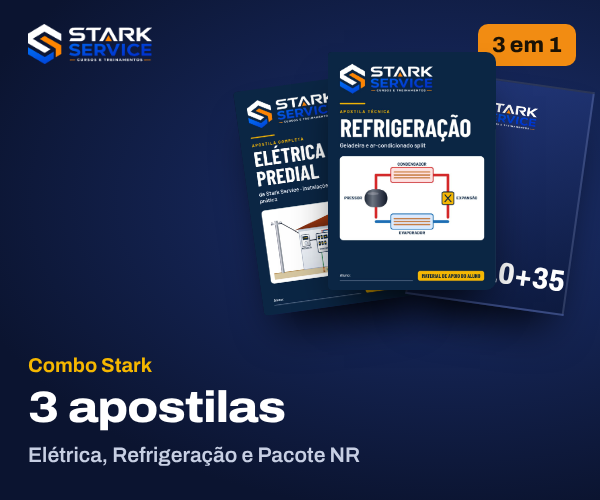
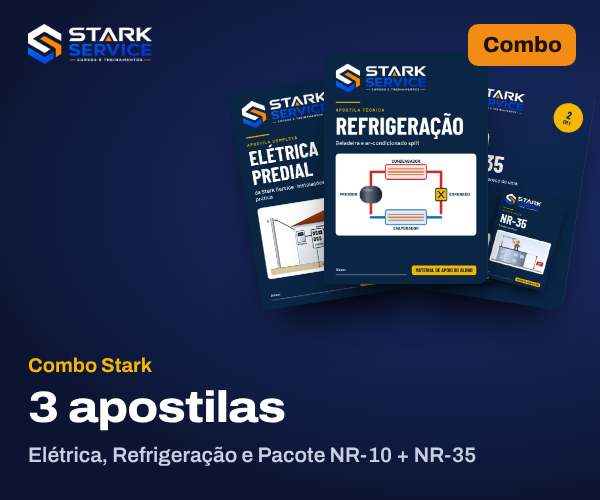
Pacote NR-10 + NR-35 na loja (duas apostilas por um preço) e combo fechado
Capa 2 em 1, prévia e livro de folhear com 8 páginas reais; links nr10/nr35
abrem o pacote; combo = Elétrica + Refrigeração + Pacote NR; imagens da Kiwify.

Claude-Session: https://claude.ai/code/session_013beyt1HZVZMUGNetuNrCYV

diff --git a/site/apostilas-teste.html b/site/apostilas-teste.html
@@ -328,7 +328,8 @@ footer{padding:2rem 0 calc(6rem + env(safe-area-inset-bottom,0px));color:var(--m
       <details><summary>Como recebo a apostila?</summary><p>Assim que o pagamento é aprovado, a Kiwify manda o acesso para o seu e-mail. Pix e cartão liberam na hora. Boleto libera depois que o banco confirma.</p></details>
       <details><summary>É impressa ou digital?</summary><p>Digital, em PDF. Abre no celular e no computador, e você pode imprimir se quiser.</p></details>
       <details><summary>Serve para quem nunca fez o curso?</summary><p>Serve. As apostilas têm pouco texto e muito desenho, com frases curtas, do jeito que a gente explica em sala.</p></details>
-      <details><summary>Como funciona o combo?</summary><p>Você leva três apostilas de uma vez por um valor menor do que comprando separado. O acesso às três chega junto, no mesmo e-mail.</p></details>
+      <details><summary>Como funciona o combo?</summary><p>Você leva Elétrica, Refrigeração e o Pacote NR (NR-10 + NR-35) de uma vez por um valor menor do que comprando separado. O acesso às três chega junto, no mesmo e-mail.</p></details>
+      <details><summary>As apostilas de NR dão certificado?</summary><p>Não. A apostila é material de estudo. O certificado de NR-10 ou NR-35 vem do curso presencial, e a autorização para trabalhar é dada pela empresa.</p></details>
       <details><summary>Ainda tenho dúvida. Com quem falo?</summary><p>Com a nossa equipe no WhatsApp (81) 98374-7177, de segunda a sexta, das 8h às 18h.</p></details>
     </div>
   </section>
@@ -348,7 +349,7 @@ footer{padding:2rem 0 calc(6rem + env(safe-area-inset-bottom,0px));color:var(--m
 <script>
 (() => {
 'use strict';
-const DATA = {"apostilas": {"eletrica": {"titulo": "Apostila Completa de Elétrica Predial", "curto": "Elétrica Predial", "sub": "60 páginas ilustradas, do jeito que a gente ensina no curso presencial da Stark Service.", "capa": "eletrica-capa.jpg", "plus": true, "previa": [["eletrica-sumario.jpg", "Sumário: as 10 partes da apostila"], ["eletrica-p22.jpg", "Página 22: disjuntores"], ["eletrica-p28.jpg", "Página 28: ligando uma tomada, passo a passo"]], "partes": [["Segurança em primeiro lugar", "Choque, EPI, desligar e testar"], ["Fundamentos da eletricidade", "Tensão, corrente, potência, fase, neutro e terra"], ["Ferramentas do eletricista", "Alicates, chaves, furadeira, multímetro"], ["Materiais e componentes", "Fios, eletrodutos, tomadas, disjuntor, DR, DPS"], ["Emendas e ligações", "Emendar, isolar, ler diagrama, ligar tomada"], ["Circuitos de iluminação", "Simples, duas teclas, paralelo, intermediário, sensor"], ["Quadro e circuitos", "Montar o quadro, dividir circuitos, aterramento"], ["Serviços do dia a dia", "Chuveiro, ventilador de teto, ar-condicionado"], ["Testes e entrega", "Testar sem e com energia, entregar o serviço"], ["Problemas comuns e consertos", "Fluxograma e 8 fichas de defeito"], ["Para fixar e consultar", "Glossário, checklist, exercícios, consulta rápida, gabarito"]], "para": ["Quem nunca mexeu com elétrica e quer começar do jeito certo", "Quem quer trabalhar como eletricista residencial", "Quem já faz serviço e quer uma consulta rápida com fichas de defeito"], "checkout": "https://pay.kiwify.com.br/cHyqB5j", "preco": "", "de": "", "soon": false}, "refrigeracao": {"titulo": "Apostila Completa de Refrigeração", "curto": "Refrigeração", "sub": "Geladeira e ar-condicionado split em 60 páginas ilustradas, com fichas de defeito e exercícios.", "capa": "refrigeracao-capa.jpg", "plus": true, "previa": [["refrigeracao-sumario.jpg", "Sumário: as 7 partes da apostila"], ["refrigeracao-p09.jpg", "Página 9: ferramentas e segurança"], ["refrigeracao-p43.jpg", "Página 43: ficha de defeito, geladeira não liga"]], "partes": [["Fundamentos", "Ciclo básico, calor e pressão, ferramentas, eletricidade básica"], ["Componentes", "Compressor, condensador, evaporador, expansão, termostato, partida"], ["Testes", "Termostato, compressor, ventilador e sensor"], ["Gás e procedimentos", "Fluidos, solda, teste de vazamento, vácuo, carga de gás"], ["Geladeira", "Tipos, frost free, degelo, esquema elétrico, manutenção"], ["Ar-condicionado split", "Evaporadora, condensadora, instalação, limpeza, inverter"], ["Defeitos e consertos", "Onde está o defeito, fichas da geladeira e do split"], ["Para consultar e praticar", "Glossário, checklist, exercícios, freezer e bebedouro"]], "para": ["Quem está começando em refrigeração", "Quem quer trabalhar com geladeira e ar-condicionado split", "Quem já faz o serviço e quer fichas de defeito para consultar"], "checkout": "", "preco": "", "de": "", "soon": false}, "nr-10": {"titulo": "Apostila de NR-10", "curto": "NR-10", "sub": "Segurança em instalações e serviços com eletricidade, no jeito Stark: pouco texto e muito desenho.", "capa": "", "plus": false, "previa": [], "partes": [["Riscos em instalações e serviços com eletricidade", ""], ["Técnicas de análise de risco", ""], ["Medidas de controle e proteção coletiva e individual", ""], ["Procedimentos de trabalho e primeiros socorros", ""], ["Acidentes típicos e prevenção", ""]], "para": ["Eletricistas e técnicos que trabalham com instalações elétricas", "Quem precisa da NR-10 para trabalhar e quer revisar o conteúdo"], "checkout": "", "preco": "", "de": "", "soon": true}, "nr-35": {"titulo": "Apostila de NR-35", "curto": "NR-35", "sub": "Trabalho em altura: análise de risco, EPI, ancoragem e resgate, ilustrado do jeito Stark.", "capa": "", "plus": false, "previa": [], "partes": [["Normas e regulamentações aplicáveis", ""], ["Análise de risco e condições impeditivas", ""], ["Equipamentos de proteção individual e coletiva", ""], ["Sistemas de ancoragem e trava-quedas", ""], ["Procedimentos de resgate e emergência", ""]], "para": ["Profissionais que executam atividades acima de 2 metros do nível inferior", "Quem precisa da NR-35 para trabalhar e quer revisar o conteúdo"], "checkout": "", "preco": "", "de": "", "soon": true}}, "combo": {"titulo": "Elétrica, Refrigeração e NR-10", "itens": ["eletrica", "refrigeracao", "nr-10"], "checkout": "", "preco": "", "de": ""}, "whats": "5581983747177"};
+const DATA = {"apostilas": {"eletrica": {"titulo": "Apostila Completa de Elétrica Predial", "curto": "Elétrica Predial", "sub": "60 páginas ilustradas, do jeito que a gente ensina no curso presencial da Stark Service.", "capa": "eletrica-capa.jpg", "plus": true, "previa": [["eletrica-sumario.jpg", "Sumário: as 10 partes da apostila"], ["eletrica-p22.jpg", "Página 22: disjuntores"], ["eletrica-p28.jpg", "Página 28: ligando uma tomada, passo a passo"]], "partes": [["Segurança em primeiro lugar", "Choque, EPI, desligar e testar"], ["Fundamentos da eletricidade", "Tensão, corrente, potência, fase, neutro e terra"], ["Ferramentas do eletricista", "Alicates, chaves, furadeira, multímetro"], ["Materiais e componentes", "Fios, eletrodutos, tomadas, disjuntor, DR, DPS"], ["Emendas e ligações", "Emendar, isolar, ler diagrama, ligar tomada"], ["Circuitos de iluminação", "Simples, duas teclas, paralelo, intermediário, sensor"], ["Quadro e circuitos", "Montar o quadro, dividir circuitos, aterramento"], ["Serviços do dia a dia", "Chuveiro, ventilador de teto, ar-condicionado"], ["Testes e entrega", "Testar sem e com energia, entregar o serviço"], ["Problemas comuns e consertos", "Fluxograma e 8 fichas de defeito"], ["Para fixar e consultar", "Glossário, checklist, exercícios, consulta rápida, gabarito"]], "para": ["Quem nunca mexeu com elétrica e quer começar do jeito certo", "Quem quer trabalhar como eletricista residencial", "Quem já faz serviço e quer uma consulta rápida com fichas de defeito"], "checkout": "https://pay.kiwify.com.br/cHyqB5j", "preco": "", "de": "", "soon": false}, "refrigeracao": {"titulo": "Apostila Completa de Refrigeração", "curto": "Refrigeração", "sub": "Geladeira e ar-condicionado split em 60 páginas ilustradas, com fichas de defeito e exercícios.", "capa": "refrigeracao-capa.jpg", "plus": true, "previa": [["refrigeracao-sumario.jpg", "Sumário: as 7 partes da apostila"], ["refrigeracao-p09.jpg", "Página 9: ferramentas e segurança"], ["refrigeracao-p43.jpg", "Página 43: ficha de defeito, geladeira não liga"]], "partes": [["Fundamentos", "Ciclo básico, calor e pressão, ferramentas, eletricidade básica"], ["Componentes", "Compressor, condensador, evaporador, expansão, termostato, partida"], ["Testes", "Termostato, compressor, ventilador e sensor"], ["Gás e procedimentos", "Fluidos, solda, teste de vazamento, vácuo, carga de gás"], ["Geladeira", "Tipos, frost free, degelo, esquema elétrico, manutenção"], ["Ar-condicionado split", "Evaporadora, condensadora, instalação, limpeza, inverter"], ["Defeitos e consertos", "Onde está o defeito, fichas da geladeira e do split"], ["Para consultar e praticar", "Glossário, checklist, exercícios, freezer e bebedouro"]], "para": ["Quem está começando em refrigeração", "Quem quer trabalhar com geladeira e ar-condicionado split", "Quem já faz o serviço e quer fichas de defeito para consultar"], "checkout": "", "preco": "", "de": "", "soon": false}, "pacote-nr": {"titulo": "Pacote NR-10 + NR-35", "curto": "NR-10 + NR-35", "sub": "As duas apostilas pelo preço de uma: NR-10 (24 páginas) e NR-35 (16 páginas), ilustradas do jeito Stark.", "capa": "pacote-nr-capa.jpg", "plus": false, "previa": [["pacote-nr-f1.jpg", "NR-10: sumário"], ["pacote-nr-f3.jpg", "NR-10, página 12: bloqueio e sinalização"], ["pacote-nr-f6.jpg", "NR-35, página 8: cinturão tipo paraquedista"]], "partes": [["NR-10: a norma e você", "Para que serve a NR-10 e quem pode trabalhar com eletricidade"], ["NR-10: os perigos da eletricidade", "Tensões, choque elétrico, arco elétrico e acidentes"], ["NR-10: proteção coletiva", "Aterramento, DR, zonas de risco, bloqueio e sinalização"], ["NR-10: desenergizar e reenergizar", "O passo a passo seguro, com teste de ausência de tensão"], ["NR-10: EPI, ferramentas e organização do trabalho", ""], ["NR-10: emergências", "Socorro, RCP e incêndio"], ["NR-35: a norma e você", "O que é trabalho em altura e quem pode subir"], ["NR-35: planejar antes de subir", "Planejamento, análise de risco e proteção coletiva"], ["NR-35: equipamentos contra queda", "Cinturão, talabarte, ancoragem e inspeção"], ["NR-35: na prática", "Escadas, telhado e resgate"], ["Nas duas apostilas", "Exercícios, glossário, checklist e gabarito"]], "para": ["Quem vai fazer o curso de NR-10 ou NR-35 e quer chegar sabendo", "Eletricista que trabalha em altura: escada, telhado, poste", "Quem já tem o certificado e quer revisar o conteúdo"], "checkout": "", "preco": "", "de": "", "soon": false}}, "combo": {"titulo": "Elétrica, Refrigeração e Pacote NR", "itens": ["eletrica", "refrigeracao", "pacote-nr"], "checkout": "", "preco": "", "de": ""}, "whats": "5581983747177"};
 const { apostilas: AP, combo: COMBO, whats: WHATS } = DATA;
 const ORDER = Object.keys(AP);
 const esc = (s) => String(s).replace(/[&<>"]/g, (c) => ({ '&': '&amp;', '<': '&lt;', '>': '&gt;', '"': '&quot;' }[c]));
@@ -369,7 +370,7 @@ function withTracking(url) {
     return u.toString();
   } catch (e) { return url; }
 }
-const buyHref = (a) => a.soon ? wa(`Olá! Quero entrar na lista da apostila de ${a.curto}.`) : withTracking(a.checkout || wa(`Olá! Quero comprar a ${a.titulo}.`));
+const buyHref = (a) => a.soon ? wa(`Olá! Quero entrar na lista da apostila de ${a.curto}.`) : withTracking(a.checkout || wa(`Olá! Quero comprar: ${a.titulo}.`));
 const buyLabel = (a) => a.soon ? 'Avise-me quando sair' : (a.preco || !a.checkout ? 'Quero a apostila' : 'Ver preço e comprar');
 const cover = (a, cls = '') => a.capa
   ? `<img class="${cls}" src="img/previa/${a.capa}" alt="Capa da ${esc(a.titulo)}" width="1000" height="1414">`
@@ -582,7 +583,7 @@ function tiltOn(el, glare, area, max) {
   };
   area.onpointerleave = () => { tx = 0; ty = 0; if (!raf) raf = requestAnimationFrame(loop); };
 }
-const FLIP = { eletrica: 8, refrigeracao: 8 };
+const FLIP = { eletrica: 8, refrigeracao: 8, 'pacote-nr': 8 };
 
 /* ===== TESTE NÍVEL 2 ===== */
 const fine = matchMedia('(hover: hover) and (pointer: fine)').matches;
@@ -678,7 +679,7 @@ function enhance() { requestAnimationFrame(() => { moveInd(); reveal(); }); }
 
 /* Which apostila to open: ?apostila=eletrica (link do direct), or #eletrica, or the first one */
 const params = new URLSearchParams(location.search);
-const alias = { eletrica: 'eletrica', 'eletrica-predial': 'eletrica', refri: 'refrigeracao', refrigeracao: 'refrigeracao', geladeira: 'refrigeracao', ar: 'refrigeracao', nr10: 'nr-10', 'nr-10': 'nr-10', nr35: 'nr-35', 'nr-35': 'nr-35' };
+const alias = { eletrica: 'eletrica', 'eletrica-predial': 'eletrica', refri: 'refrigeracao', refrigeracao: 'refrigeracao', geladeira: 'refrigeracao', ar: 'refrigeracao', nr10: 'pacote-nr', 'nr-10': 'pacote-nr', nr35: 'pacote-nr', 'nr-35': 'pacote-nr', nr: 'pacote-nr', pacote: 'pacote-nr' };
 const want = (params.get('apostila') || location.hash.slice(1) || '').toLowerCase();
 renderCombo(); upgradeButtons(document.getElementById('comboCard'));
 upgradeButtons(document.getElementById('dock'));

diff --git a/site/apostilas.html b/site/apostilas.html
@@ -327,7 +327,8 @@ footer{padding:2rem 0 calc(6rem + env(safe-area-inset-bottom,0px));color:var(--m
       <details><summary>Como recebo a apostila?</summary><p>Assim que o pagamento é aprovado, a Kiwify manda o acesso para o seu e-mail. Pix e cartão liberam na hora. Boleto libera depois que o banco confirma.</p></details>
       <details><summary>É impressa ou digital?</summary><p>Digital, em PDF. Abre no celular e no computador, e você pode imprimir se quiser.</p></details>
       <details><summary>Serve para quem nunca fez o curso?</summary><p>Serve. As apostilas têm pouco texto e muito desenho, com frases curtas, do jeito que a gente explica em sala.</p></details>
-      <details><summary>Como funciona o combo?</summary><p>Você leva três apostilas de uma vez por um valor menor do que comprando separado. O acesso às três chega junto, no mesmo e-mail.</p></details>
+      <details><summary>Como funciona o combo?</summary><p>Você leva Elétrica, Refrigeração e o Pacote NR (NR-10 + NR-35) de uma vez por um valor menor do que comprando separado. O acesso às três chega junto, no mesmo e-mail.</p></details>
+      <details><summary>As apostilas de NR dão certificado?</summary><p>Não. A apostila é material de estudo. O certificado de NR-10 ou NR-35 vem do curso presencial, e a autorização para trabalhar é dada pela empresa.</p></details>
       <details><summary>Ainda tenho dúvida. Com quem falo?</summary><p>Com a nossa equipe no WhatsApp (81) 98374-7177, de segunda a sexta, das 8h às 18h.</p></details>
     </div>
   </section>
@@ -347,7 +348,7 @@ footer{padding:2rem 0 calc(6rem + env(safe-area-inset-bottom,0px));color:var(--m
 <script>
 (() => {
 'use strict';
-const DATA = {"apostilas": {"eletrica": {"titulo": "Apostila Completa de Elétrica Predial", "curto": "Elétrica Predial", "sub": "60 páginas ilustradas, do jeito que a gente ensina no curso presencial da Stark Service.", "capa": "eletrica-capa.jpg", "plus": true, "previa": [["eletrica-sumario.jpg", "Sumário: as 10 partes da apostila"], ["eletrica-p22.jpg", "Página 22: disjuntores"], ["eletrica-p28.jpg", "Página 28: ligando uma tomada, passo a passo"]], "partes": [["Segurança em primeiro lugar", "Choque, EPI, desligar e testar"], ["Fundamentos da eletricidade", "Tensão, corrente, potência, fase, neutro e terra"], ["Ferramentas do eletricista", "Alicates, chaves, furadeira, multímetro"], ["Materiais e componentes", "Fios, eletrodutos, tomadas, disjuntor, DR, DPS"], ["Emendas e ligações", "Emendar, isolar, ler diagrama, ligar tomada"], ["Circuitos de iluminação", "Simples, duas teclas, paralelo, intermediário, sensor"], ["Quadro e circuitos", "Montar o quadro, dividir circuitos, aterramento"], ["Serviços do dia a dia", "Chuveiro, ventilador de teto, ar-condicionado"], ["Testes e entrega", "Testar sem e com energia, entregar o serviço"], ["Problemas comuns e consertos", "Fluxograma e 8 fichas de defeito"], ["Para fixar e consultar", "Glossário, checklist, exercícios, consulta rápida, gabarito"]], "para": ["Quem nunca mexeu com elétrica e quer começar do jeito certo", "Quem quer trabalhar como eletricista residencial", "Quem já faz serviço e quer uma consulta rápida com fichas de defeito"], "checkout": "https://pay.kiwify.com.br/cHyqB5j", "preco": "", "de": "", "soon": false}, "refrigeracao": {"titulo": "Apostila Completa de Refrigeração", "curto": "Refrigeração", "sub": "Geladeira e ar-condicionado split em 60 páginas ilustradas, com fichas de defeito e exercícios.", "capa": "refrigeracao-capa.jpg", "plus": true, "previa": [["refrigeracao-sumario.jpg", "Sumário: as 7 partes da apostila"], ["refrigeracao-p09.jpg", "Página 9: ferramentas e segurança"], ["refrigeracao-p43.jpg", "Página 43: ficha de defeito, geladeira não liga"]], "partes": [["Fundamentos", "Ciclo básico, calor e pressão, ferramentas, eletricidade básica"], ["Componentes", "Compressor, condensador, evaporador, expansão, termostato, partida"], ["Testes", "Termostato, compressor, ventilador e sensor"], ["Gás e procedimentos", "Fluidos, solda, teste de vazamento, vácuo, carga de gás"], ["Geladeira", "Tipos, frost free, degelo, esquema elétrico, manutenção"], ["Ar-condicionado split", "Evaporadora, condensadora, instalação, limpeza, inverter"], ["Defeitos e consertos", "Onde está o defeito, fichas da geladeira e do split"], ["Para consultar e praticar", "Glossário, checklist, exercícios, freezer e bebedouro"]], "para": ["Quem está começando em refrigeração", "Quem quer trabalhar com geladeira e ar-condicionado split", "Quem já faz o serviço e quer fichas de defeito para consultar"], "checkout": "", "preco": "", "de": "", "soon": false}, "nr-10": {"titulo": "Apostila de NR-10", "curto": "NR-10", "sub": "Segurança em instalações e serviços com eletricidade, no jeito Stark: pouco texto e muito desenho.", "capa": "", "plus": false, "previa": [], "partes": [["Riscos em instalações e serviços com eletricidade", ""], ["Técnicas de análise de risco", ""], ["Medidas de controle e proteção coletiva e individual", ""], ["Procedimentos de trabalho e primeiros socorros", ""], ["Acidentes típicos e prevenção", ""]], "para": ["Eletricistas e técnicos que trabalham com instalações elétricas", "Quem precisa da NR-10 para trabalhar e quer revisar o conteúdo"], "checkout": "", "preco": "", "de": "", "soon": true}, "nr-35": {"titulo": "Apostila de NR-35", "curto": "NR-35", "sub": "Trabalho em altura: análise de risco, EPI, ancoragem e resgate, ilustrado do jeito Stark.", "capa": "", "plus": false, "previa": [], "partes": [["Normas e regulamentações aplicáveis", ""], ["Análise de risco e condições impeditivas", ""], ["Equipamentos de proteção individual e coletiva", ""], ["Sistemas de ancoragem e trava-quedas", ""], ["Procedimentos de resgate e emergência", ""]], "para": ["Profissionais que executam atividades acima de 2 metros do nível inferior", "Quem precisa da NR-35 para trabalhar e quer revisar o conteúdo"], "checkout": "", "preco": "", "de": "", "soon": true}}, "combo": {"titulo": "Elétrica, Refrigeração e NR-10", "itens": ["eletrica", "refrigeracao", "nr-10"], "checkout": "", "preco": "", "de": ""}, "whats": "5581983747177"};
+const DATA = {"apostilas": {"eletrica": {"titulo": "Apostila Completa de Elétrica Predial", "curto": "Elétrica Predial", "sub": "60 páginas ilustradas, do jeito que a gente ensina no curso presencial da Stark Service.", "capa": "eletrica-capa.jpg", "plus": true, "previa": [["eletrica-sumario.jpg", "Sumário: as 10 partes da apostila"], ["eletrica-p22.jpg", "Página 22: disjuntores"], ["eletrica-p28.jpg", "Página 28: ligando uma tomada, passo a passo"]], "partes": [["Segurança em primeiro lugar", "Choque, EPI, desligar e testar"], ["Fundamentos da eletricidade", "Tensão, corrente, potência, fase, neutro e terra"], ["Ferramentas do eletricista", "Alicates, chaves, furadeira, multímetro"], ["Materiais e componentes", "Fios, eletrodutos, tomadas, disjuntor, DR, DPS"], ["Emendas e ligações", "Emendar, isolar, ler diagrama, ligar tomada"], ["Circuitos de iluminação", "Simples, duas teclas, paralelo, intermediário, sensor"], ["Quadro e circuitos", "Montar o quadro, dividir circuitos, aterramento"], ["Serviços do dia a dia", "Chuveiro, ventilador de teto, ar-condicionado"], ["Testes e entrega", "Testar sem e com energia, entregar o serviço"], ["Problemas comuns e consertos", "Fluxograma e 8 fichas de defeito"], ["Para fixar e consultar", "Glossário, checklist, exercícios, consulta rápida, gabarito"]], "para": ["Quem nunca mexeu com elétrica e quer começar do jeito certo", "Quem quer trabalhar como eletricista residencial", "Quem já faz serviço e quer uma consulta rápida com fichas de defeito"], "checkout": "https://pay.kiwify.com.br/cHyqB5j", "preco": "", "de": "", "soon": false}, "refrigeracao": {"titulo": "Apostila Completa de Refrigeração", "curto": "Refrigeração", "sub": "Geladeira e ar-condicionado split em 60 páginas ilustradas, com fichas de defeito e exercícios.", "capa": "refrigeracao-capa.jpg", "plus": true, "previa": [["refrigeracao-sumario.jpg", "Sumário: as 7 partes da apostila"], ["refrigeracao-p09.jpg", "Página 9: ferramentas e segurança"], ["refrigeracao-p43.jpg", "Página 43: ficha de defeito, geladeira não liga"]], "partes": [["Fundamentos", "Ciclo básico, calor e pressão, ferramentas, eletricidade básica"], ["Componentes", "Compressor, condensador, evaporador, expansão, termostato, partida"], ["Testes", "Termostato, compressor, ventilador e sensor"], ["Gás e procedimentos", "Fluidos, solda, teste de vazamento, vácuo, carga de gás"], ["Geladeira", "Tipos, frost free, degelo, esquema elétrico, manutenção"], ["Ar-condicionado split", "Evaporadora, condensadora, instalação, limpeza, inverter"], ["Defeitos e consertos", "Onde está o defeito, fichas da geladeira e do split"], ["Para consultar e praticar", "Glossário, checklist, exercícios, freezer e bebedouro"]], "para": ["Quem está começando em refrigeração", "Quem quer trabalhar com geladeira e ar-condicionado split", "Quem já faz o serviço e quer fichas de defeito para consultar"], "checkout": "", "preco": "", "de": "", "soon": false}, "pacote-nr": {"titulo": "Pacote NR-10 + NR-35", "curto": "NR-10 + NR-35", "sub": "As duas apostilas pelo preço de uma: NR-10 (24 páginas) e NR-35 (16 páginas), ilustradas do jeito Stark.", "capa": "pacote-nr-capa.jpg", "plus": false, "previa": [["pacote-nr-f1.jpg", "NR-10: sumário"], ["pacote-nr-f3.jpg", "NR-10, página 12: bloqueio e sinalização"], ["pacote-nr-f6.jpg", "NR-35, página 8: cinturão tipo paraquedista"]], "partes": [["NR-10: a norma e você", "Para que serve a NR-10 e quem pode trabalhar com eletricidade"], ["NR-10: os perigos da eletricidade", "Tensões, choque elétrico, arco elétrico e acidentes"], ["NR-10: proteção coletiva", "Aterramento, DR, zonas de risco, bloqueio e sinalização"], ["NR-10: desenergizar e reenergizar", "O passo a passo seguro, com teste de ausência de tensão"], ["NR-10: EPI, ferramentas e organização do trabalho", ""], ["NR-10: emergências", "Socorro, RCP e incêndio"], ["NR-35: a norma e você", "O que é trabalho em altura e quem pode subir"], ["NR-35: planejar antes de subir", "Planejamento, análise de risco e proteção coletiva"], ["NR-35: equipamentos contra queda", "Cinturão, talabarte, ancoragem e inspeção"], ["NR-35: na prática", "Escadas, telhado e resgate"], ["Nas duas apostilas", "Exercícios, glossário, checklist e gabarito"]], "para": ["Quem vai fazer o curso de NR-10 ou NR-35 e quer chegar sabendo", "Eletricista que trabalha em altura: escada, telhado, poste", "Quem já tem o certificado e quer revisar o conteúdo"], "checkout": "", "preco": "", "de": "", "soon": false}}, "combo": {"titulo": "Elétrica, Refrigeração e Pacote NR", "itens": ["eletrica", "refrigeracao", "pacote-nr"], "checkout": "", "preco": "", "de": ""}, "whats": "5581983747177"};
 const { apostilas: AP, combo: COMBO, whats: WHATS } = DATA;
 const ORDER = Object.keys(AP);
 const esc = (s) => String(s).replace(/[&<>"]/g, (c) => ({ '&': '&amp;', '<': '&lt;', '>': '&gt;', '"': '&quot;' }[c]));
@@ -368,7 +369,7 @@ function withTracking(url) {
     return u.toString();
   } catch (e) { return url; }
 }
-const buyHref = (a) => a.soon ? wa(`Olá! Quero entrar na lista da apostila de ${a.curto}.`) : withTracking(a.checkout || wa(`Olá! Quero comprar a ${a.titulo}.`));
+const buyHref = (a) => a.soon ? wa(`Olá! Quero entrar na lista da apostila de ${a.curto}.`) : withTracking(a.checkout || wa(`Olá! Quero comprar: ${a.titulo}.`));
 const buyLabel = (a) => a.soon ? 'Avise-me quando sair' : (a.preco || !a.checkout ? 'Quero a apostila' : 'Ver preço e comprar');
 const cover = (a, cls = '') => a.capa
   ? `<img class="${cls}" src="img/previa/${a.capa}" alt="Capa da ${esc(a.titulo)}" width="1000" height="1414">`
@@ -581,7 +582,7 @@ function tiltOn(el, glare, area, max) {
   };
   area.onpointerleave = () => { tx = 0; ty = 0; if (!raf) raf = requestAnimationFrame(loop); };
 }
-const FLIP = { eletrica: 8, refrigeracao: 8 };
+const FLIP = { eletrica: 8, refrigeracao: 8, 'pacote-nr': 8 };
 
 /* ===== TESTE NÍVEL 2 ===== */
 const fine = matchMedia('(hover: hover) and (pointer: fine)').matches;
@@ -677,7 +678,7 @@ function enhance() { requestAnimationFrame(() => { moveInd(); reveal(); }); }
 
 /* Which apostila to open: ?apostila=eletrica (link do direct), or #eletrica, or the first one */
 const params = new URLSearchParams(location.search);
-const alias = { eletrica: 'eletrica', 'eletrica-predial': 'eletrica', refri: 'refrigeracao', refrigeracao: 'refrigeracao', geladeira: 'refrigeracao', ar: 'refrigeracao', nr10: 'nr-10', 'nr-10': 'nr-10', nr35: 'nr-35', 'nr-35': 'nr-35' };
+const alias = { eletrica: 'eletrica', 'eletrica-predial': 'eletrica', refri: 'refrigeracao', refrigeracao: 'refrigeracao', geladeira: 'refrigeracao', ar: 'refrigeracao', nr10: 'pacote-nr', 'nr-10': 'pacote-nr', nr35: 'pacote-nr', 'nr-35': 'pacote-nr', nr: 'pacote-nr', pacote: 'pacote-nr' };
 const want = (params.get('apostila') || location.hash.slice(1) || '').toLowerCase();
 renderCombo(); upgradeButtons(document.getElementById('comboCard'));
 upgradeButtons(document.getElementById('dock'));

diff --git a/site/vendas/loja-teste.html b/site/vendas/loja-teste.html
@@ -328,7 +328,8 @@ footer{padding:2rem 0 calc(6rem + env(safe-area-inset-bottom,0px));color:var(--m
       <details><summary>Como recebo a apostila?</summary><p>Assim que o pagamento é aprovado, a Kiwify manda o acesso para o seu e-mail. Pix e cartão liberam na hora. Boleto libera depois que o banco confirma.</p></details>
       <details><summary>É impressa ou digital?</summary><p>Digital, em PDF. Abre no celular e no computador, e você pode imprimir se quiser.</p></details>
       <details><summary>Serve para quem nunca fez o curso?</summary><p>Serve. As apostilas têm pouco texto e muito desenho, com frases curtas, do jeito que a gente explica em sala.</p></details>
-      <details><summary>Como funciona o combo?</summary><p>Você leva três apostilas de uma vez por um valor menor do que comprando separado. O acesso às três chega junto, no mesmo e-mail.</p></details>
+      <details><summary>Como funciona o combo?</summary><p>Você leva Elétrica, Refrigeração e o Pacote NR (NR-10 + NR-35) de uma vez por um valor menor do que comprando separado. O acesso às três chega junto, no mesmo e-mail.</p></details>
+      <details><summary>As apostilas de NR dão certificado?</summary><p>Não. A apostila é material de estudo. O certificado de NR-10 ou NR-35 vem do curso presencial, e a autorização para trabalhar é dada pela empresa.</p></details>
       <details><summary>Ainda tenho dúvida. Com quem falo?</summary><p>Com a nossa equipe no WhatsApp (81) 98374-7177, de segunda a sexta, das 8h às 18h.</p></details>
     </div>
   </section>
@@ -369,7 +370,7 @@ function withTracking(url) {
     return u.toString();
   } catch (e) { return url; }
 }
-const buyHref = (a) => a.soon ? wa(`Olá! Quero entrar na lista da apostila de ${a.curto}.`) : withTracking(a.checkout || wa(`Olá! Quero comprar a ${a.titulo}.`));
+const buyHref = (a) => a.soon ? wa(`Olá! Quero entrar na lista da apostila de ${a.curto}.`) : withTracking(a.checkout || wa(`Olá! Quero comprar: ${a.titulo}.`));
 const buyLabel = (a) => a.soon ? 'Avise-me quando sair' : (a.preco || !a.checkout ? 'Quero a apostila' : 'Ver preço e comprar');
 const cover = (a, cls = '') => a.capa
   ? `<img class="${cls}" src="img/previa/${a.capa}" alt="Capa da ${esc(a.titulo)}" width="1000" height="1414">`
@@ -582,7 +583,7 @@ function tiltOn(el, glare, area, max) {
   };
   area.onpointerleave = () => { tx = 0; ty = 0; if (!raf) raf = requestAnimationFrame(loop); };
 }
-const FLIP = { eletrica: 8, refrigeracao: 8 };
+const FLIP = { eletrica: 8, refrigeracao: 8, 'pacote-nr': 8 };
 
 /* ===== TESTE NÍVEL 2 ===== */
 const fine = matchMedia('(hover: hover) and (pointer: fine)').matches;
@@ -678,7 +679,7 @@ function enhance() { requestAnimationFrame(() => { moveInd(); reveal(); }); }
 
 /* Which apostila to open: ?apostila=eletrica (link do direct), or #eletrica, or the first one */
 const params = new URLSearchParams(location.search);
-const alias = { eletrica: 'eletrica', 'eletrica-predial': 'eletrica', refri: 'refrigeracao', refrigeracao: 'refrigeracao', geladeira: 'refrigeracao', ar: 'refrigeracao', nr10: 'nr-10', 'nr-10': 'nr-10', nr35: 'nr-35', 'nr-35': 'nr-35' };
+const alias = { eletrica: 'eletrica', 'eletrica-predial': 'eletrica', refri: 'refrigeracao', refrigeracao: 'refrigeracao', geladeira: 'refrigeracao', ar: 'refrigeracao', nr10: 'pacote-nr', 'nr-10': 'pacote-nr', nr35: 'pacote-nr', 'nr-35': 'pacote-nr', nr: 'pacote-nr', pacote: 'pacote-nr' };
 const want = (params.get('apostila') || location.hash.slice(1) || '').toLowerCase();
 renderCombo(); upgradeButtons(document.getElementById('comboCard'));
 upgradeButtons(document.getElementById('dock'));

diff --git a/site/vendas/loja.html b/site/vendas/loja.html
@@ -327,7 +327,8 @@ footer{padding:2rem 0 calc(6rem + env(safe-area-inset-bottom,0px));color:var(--m
       <details><summary>Como recebo a apostila?</summary><p>Assim que o pagamento é aprovado, a Kiwify manda o acesso para o seu e-mail. Pix e cartão liberam na hora. Boleto libera depois que o banco confirma.</p></details>
       <details><summary>É impressa ou digital?</summary><p>Digital, em PDF. Abre no celular e no computador, e você pode imprimir se quiser.</p></details>
       <details><summary>Serve para quem nunca fez o curso?</summary><p>Serve. As apostilas têm pouco texto e muito desenho, com frases curtas, do jeito que a gente explica em sala.</p></details>
-      <details><summary>Como funciona o combo?</summary><p>Você leva três apostilas de uma vez por um valor menor do que comprando separado. O acesso às três chega junto, no mesmo e-mail.</p></details>
+      <details><summary>Como funciona o combo?</summary><p>Você leva Elétrica, Refrigeração e o Pacote NR (NR-10 + NR-35) de uma vez por um valor menor do que comprando separado. O acesso às três chega junto, no mesmo e-mail.</p></details>
+      <details><summary>As apostilas de NR dão certificado?</summary><p>Não. A apostila é material de estudo. O certificado de NR-10 ou NR-35 vem do curso presencial, e a autorização para trabalhar é dada pela empresa.</p></details>
       <details><summary>Ainda tenho dúvida. Com quem falo?</summary><p>Com a nossa equipe no WhatsApp (81) 98374-7177, de segunda a sexta, das 8h às 18h.</p></details>
     </div>
   </section>
@@ -368,7 +369,7 @@ function withTracking(url) {
     return u.toString();
   } catch (e) { return url; }
 }
-const buyHref = (a) => a.soon ? wa(`Olá! Quero entrar na lista da apostila de ${a.curto}.`) : withTracking(a.checkout || wa(`Olá! Quero comprar a ${a.titulo}.`));
+const buyHref = (a) => a.soon ? wa(`Olá! Quero entrar na lista da apostila de ${a.curto}.`) : withTracking(a.checkout || wa(`Olá! Quero comprar: ${a.titulo}.`));
 const buyLabel = (a) => a.soon ? 'Avise-me quando sair' : (a.preco || !a.checkout ? 'Quero a apostila' : 'Ver preço e comprar');
 const cover = (a, cls = '') => a.capa
   ? `<img class="${cls}" src="img/previa/${a.capa}" alt="Capa da ${esc(a.titulo)}" width="1000" height="1414">`
@@ -581,7 +582,7 @@ function tiltOn(el, glare, area, max) {
   };
   area.onpointerleave = () => { tx = 0; ty = 0; if (!raf) raf = requestAnimationFrame(loop); };
 }
-const FLIP = { eletrica: 8, refrigeracao: 8 };
+const FLIP = { eletrica: 8, refrigeracao: 8, 'pacote-nr': 8 };
 
 /* ===== TESTE NÍVEL 2 ===== */
 const fine = matchMedia('(hover: hover) and (pointer: fine)').matches;
@@ -677,7 +678,7 @@ function enhance() { requestAnimationFrame(() => { moveInd(); reveal(); }); }
 
 /* Which apostila to open: ?apostila=eletrica (link do direct), or #eletrica, or the first one */
 const params = new URLSearchParams(location.search);
-const alias = { eletrica: 'eletrica', 'eletrica-predial': 'eletrica', refri: 'refrigeracao', refrigeracao: 'refrigeracao', geladeira: 'refrigeracao', ar: 'refrigeracao', nr10: 'nr-10', 'nr-10': 'nr-10', nr35: 'nr-35', 'nr-35': 'nr-35' };
+const alias = { eletrica: 'eletrica', 'eletrica-predial': 'eletrica', refri: 'refrigeracao', refrigeracao: 'refrigeracao', geladeira: 'refrigeracao', ar: 'refrigeracao', nr10: 'pacote-nr', 'nr-10': 'pacote-nr', nr35: 'pacote-nr', 'nr-35': 'pacote-nr', nr: 'pacote-nr', pacote: 'pacote-nr' };
 const want = (params.get('apostila') || location.hash.slice(1) || '').toLowerCase();
 renderCombo(); upgradeButtons(document.getElementById('comboCard'));
 upgradeButtons(document.getElementById('dock'));

diff --git a/site/index.html b/site/index.html
@@ -132,7 +132,7 @@ section{padding-block:clamp(4rem,9vw,7.5rem)}
 /* Apostilas: printed booklets you can buy online */
 .shop{background:var(--band);color:var(--band-fg)}
 .shop .lead{color:var(--band-muted)}
-.shop-grid{display:grid;grid-template-columns:repeat(4,1fr);gap:20px}
+.shop-grid{display:grid;grid-template-columns:repeat(3,1fr);gap:20px}
 @media (max-width:900px){.shop-grid{grid-template-columns:repeat(2,1fr)}}
 @media (max-width:560px){.shop-grid{grid-template-columns:1fr}}
 .book{display:grid;grid-template-rows:auto 1fr;gap:1.1rem;min-width:0}
@@ -871,8 +871,7 @@ if (deep) openSheet(deep[1], false);
 const APOSTILAS = [
   { slug:'eletrica', capa:'eletrica-capa.jpg', title:'Elétrica Predial', items:['60 páginas ilustradas, com fichas de defeito','PDF para ler no celular ou imprimir'] },
   { slug:'refrigeracao', capa:'refrigeracao-capa.jpg', title:'Refrigeração e Climatização', items:['Geladeira e split em 60 páginas ilustradas','PDF para ler no celular ou imprimir'] },
-  { slug:'nr-10', title:'NR-10', soon:true, items:['Segurança em instalações e serviços com eletricidade'] },
-  { slug:'nr-35', title:'NR-35', soon:true, items:['Trabalho em altura, EPI, ancoragem e resgate'] },
+  { slug:'pacote-nr', capa:'pacote-nr-capa.jpg', title:'NR-10 + NR-35', items:['As duas apostilas pelo preço de uma','PDF para ler no celular ou imprimir'] },
 ];
 document.getElementById('shopGrid').innerHTML = APOSTILAS.map((a) => {
   const href = `apostilas.html?apostila=${a.slug}`;

diff --git a/site/vendas/gerar.py b/site/vendas/gerar.py
@@ -12,7 +12,7 @@ COMO ATIVAR A VENDA (Kiwify)
 
 LINKS PARA O DIRECT
   apostilas.html?apostila=eletrica      apostilas.html?apostila=refrigeracao
-  apostilas.html?apostila=nr-10         apostilas.html?apostila=nr-35
+  apostilas.html?apostila=pacote-nr     (nr10, nr35 e nr também abrem o pacote)
   (acrescente &utm_source=instagram&utm_campaign=<nome-do-reel> para saber qual Reel vendeu)
 """
 import json, pathlib
@@ -65,37 +65,34 @@ APOSTILAS = {
                  "Quem já faz o serviço e quer fichas de defeito para consultar"],
         "checkout": "", "preco": "", "de": "", "soon": False,
     },
-    "nr-10": {
-        "titulo": "Apostila de NR-10", "curto": "NR-10",
-        "sub": "Segurança em instalações e serviços com eletricidade, no jeito Stark: pouco texto e muito desenho.",
-        "capa": "", "plus": False, "previa": [],
-        "partes": [["Riscos em instalações e serviços com eletricidade", ""],
-                   ["Técnicas de análise de risco", ""],
-                   ["Medidas de controle e proteção coletiva e individual", ""],
-                   ["Procedimentos de trabalho e primeiros socorros", ""],
-                   ["Acidentes típicos e prevenção", ""]],
-        "para": ["Eletricistas e técnicos que trabalham com instalações elétricas",
-                 "Quem precisa da NR-10 para trabalhar e quer revisar o conteúdo"],
-        "checkout": "", "preco": "", "de": "", "soon": True,
-    },
-    "nr-35": {
-        "titulo": "Apostila de NR-35", "curto": "NR-35",
-        "sub": "Trabalho em altura: análise de risco, EPI, ancoragem e resgate, ilustrado do jeito Stark.",
-        "capa": "", "plus": False, "previa": [],
-        "partes": [["Normas e regulamentações aplicáveis", ""],
-                   ["Análise de risco e condições impeditivas", ""],
-                   ["Equipamentos de proteção individual e coletiva", ""],
-                   ["Sistemas de ancoragem e trava-quedas", ""],
-                   ["Procedimentos de resgate e emergência", ""]],
-        "para": ["Profissionais que executam atividades acima de 2 metros do nível inferior",
-                 "Quem precisa da NR-35 para trabalhar e quer revisar o conteúdo"],
-        "checkout": "", "preco": "", "de": "", "soon": True,
+    "pacote-nr": {
+        "titulo": "Pacote NR-10 + NR-35", "curto": "NR-10 + NR-35",
+        "sub": "As duas apostilas pelo preço de uma: NR-10 (24 páginas) e NR-35 (16 páginas), ilustradas do jeito Stark.",
+        "capa": "pacote-nr-capa.jpg", "plus": False,
+        "previa": [["pacote-nr-f1.jpg", "NR-10: sumário"],
+                   ["pacote-nr-f3.jpg", "NR-10, página 12: bloqueio e sinalização"],
+                   ["pacote-nr-f6.jpg", "NR-35, página 8: cinturão tipo paraquedista"]],
+        "partes": [["NR-10: a norma e você", "Para que serve a NR-10 e quem pode trabalhar com eletricidade"],
+                   ["NR-10: os perigos da eletricidade", "Tensões, choque elétrico, arco elétrico e acidentes"],
+                   ["NR-10: proteção coletiva", "Aterramento, DR, zonas de risco, bloqueio e sinalização"],
+                   ["NR-10: desenergizar e reenergizar", "O passo a passo seguro, com teste de ausência de tensão"],
+                   ["NR-10: EPI, ferramentas e organização do trabalho", ""],
+                   ["NR-10: emergências", "Socorro, RCP e incêndio"],
+                   ["NR-35: a norma e você", "O que é trabalho em altura e quem pode subir"],
+                   ["NR-35: planejar antes de subir", "Planejamento, análise de risco e proteção coletiva"],
+                   ["NR-35: equipamentos contra queda", "Cinturão, talabarte, ancoragem e inspeção"],
+                   ["NR-35: na prática", "Escadas, telhado e resgate"],
+                   ["Nas duas apostilas", "Exercícios, glossário, checklist e gabarito"]],
+        "para": ["Quem vai fazer o curso de NR-10 ou NR-35 e quer chegar sabendo",
+                 "Eletricista que trabalha em altura: escada, telhado, poste",
+                 "Quem já tem o certificado e quer revisar o conteúdo"],
+        "checkout": "", "preco": "", "de": "", "soon": False,
     },
 }
 
 COMBO = {
-    "titulo": "Elétrica, Refrigeração e NR-10",
-    "itens": ["eletrica", "refrigeracao", "nr-10"],
+    "titulo": "Elétrica, Refrigeração e Pacote NR",
+    "itens": ["eletrica", "refrigeracao", "pacote-nr"],
     "checkout": "", "preco": "", "de": "",
 }
 
